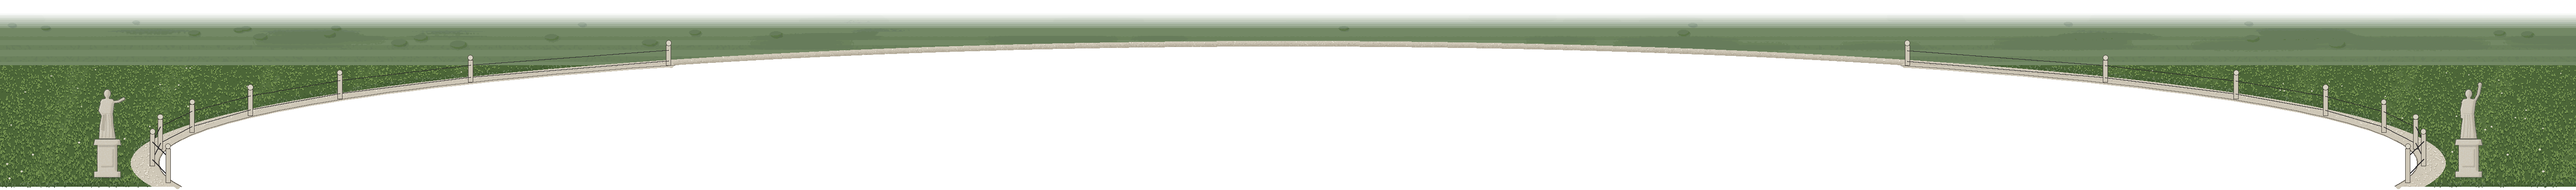
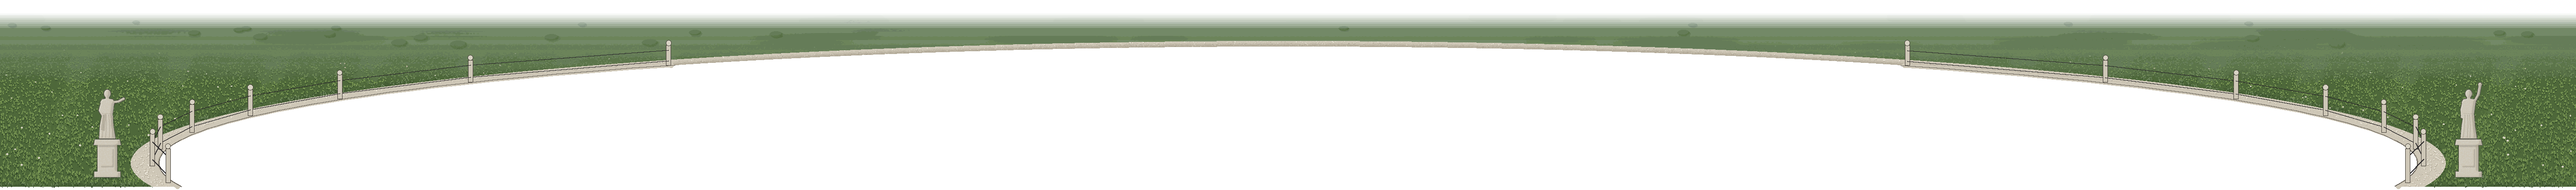
Padova: l'erba vicina e il prato lontano oltre il canale sfumano senza stacco
Claude-Session: https://claude.ai/code/session_01Bf1d2rFJnp9n4pFf7DSqn4

Changed region(s): [[0.7478, 0.3235, 1.0, 1.0], [0.0, 0.3235, 0.2493, 1.0]]

diff --git a/tools/arene/padova.py b/tools/arene/padova.py
@@ -2170,9 +2170,12 @@ def ansa(name):
     walk_m = q.minus(q.ellipse(q.mask(), cx - rx - WALK, cy - ry - 6, cx + rx + WALK, cy + ry + 6), water)
     walk_m = q.intersect(walk_m, area)
     lawn_m = q.minus(q.minus(area, water), walk_m)
-    near_m = q.intersect(lawn_m, q.poly(q.mask(), [(x0, 470), (x0 + w, 470), (x0 + w, split), (x0, split)]))
-    far_m = q.minus(lawn_m, near_m)
-    paint_grass(q, near_m, 3787, 470, split, density=0.15)
+    # l'erba vicina ai lati e il prato lontano dietro passano dall'uno all'altro senza stacco (#378, Riccardo):
+    # l'erba sotto dappertutto, poi il prato lontano dipinto a parte e sfumato in basso, tra y 446 e 492
+    paint_grass(q, lawn_m, 3787, 470, split, density=0.15)
+    near_q = q
+    q = Quadro(w, h, origin=(x0, y0), scale=2, ss=1)
+    far_m = lawn_m
     # il prato del parco visto da lontano (#378, Riccardo: era un colore strano): velato e più chiaro in fondo, con le
     # strisce del taglio sempre più strette verso l'orizzonte, le ombre a chiazze degli alberi, qualche cespuglio
     # e la grana, senza i fili d'erba che da lì non si vedono
@@ -2202,6 +2205,13 @@ def ansa(name):
     q.fill(bush, far((70, 98, 56, 255), 0.25)[:3])
     q.fill(q.inner_shadow(bush, -1, -1, 0.6), far((50, 72, 44, 255), 0.25)[:3], 0.8)
     q.fill(q.grain(far_m, 0.4, 3791, 1.6), far((112, 136, 80, 255), 0.22)[:3], 0.25)
+    fade_far = Image.new("L", q.size, 0)
+    for py in range(q.size[1]):
+        y = y0 + py / q.k
+        fade_far.paste(int(255 * min(1.0, max(0.0, (492 - y) / 46))), (0, py, q.size[0], py + 1))
+    q.img.putalpha(ImageChops.multiply(q.img.getchannel("A"), fade_far))
+    near_q.img.alpha_composite(q.img)
+    q = near_q
     paint_gravel(q, walk_m, 3788, cy - ry - 6, split, density=0.3)
     q.fill(q.intersect(q.soften(q.ellipse(q.mask(), cx - rx - 2, cy - ry - 3, cx + rx + 2, cy + ry + 3), 1.5), walk_m), (120, 112, 96), 0.35)  # il cordolo in ombra
     t.img.alpha_composite(q.img)
